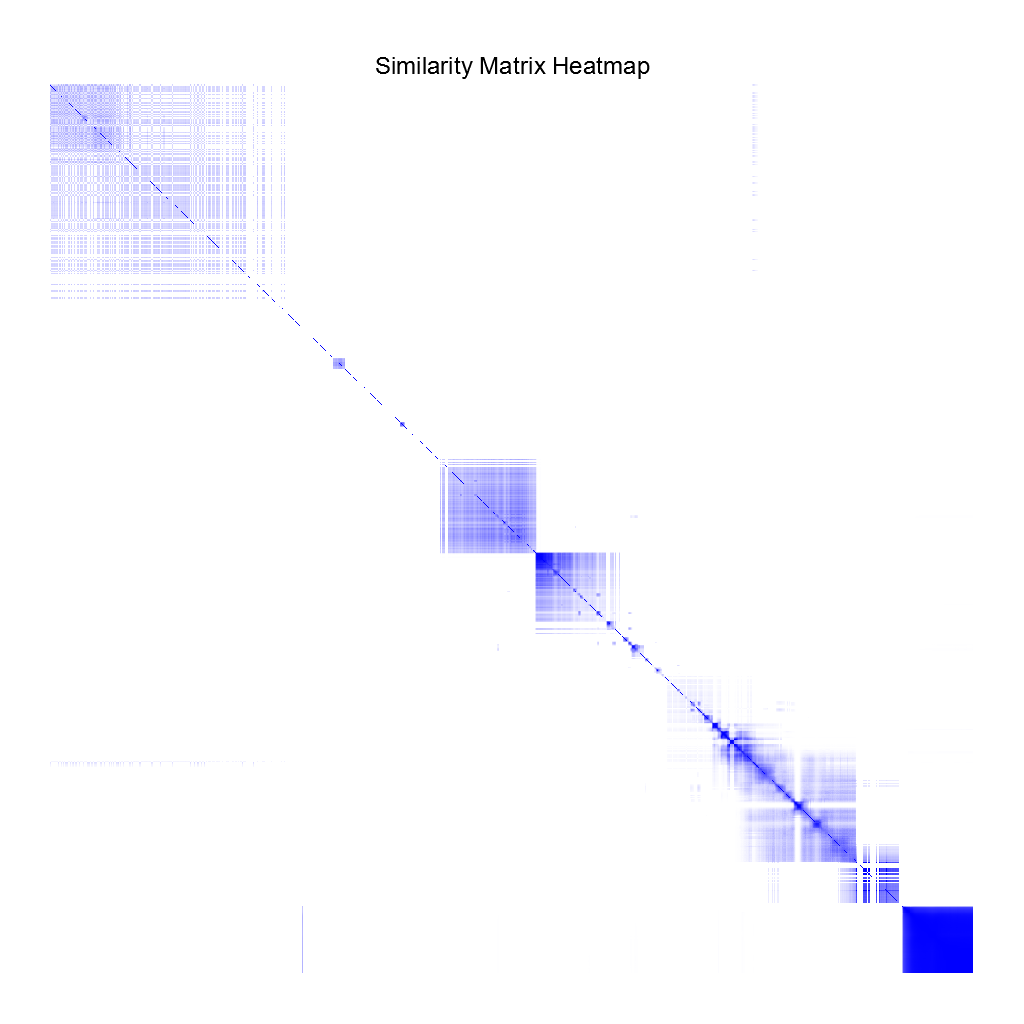
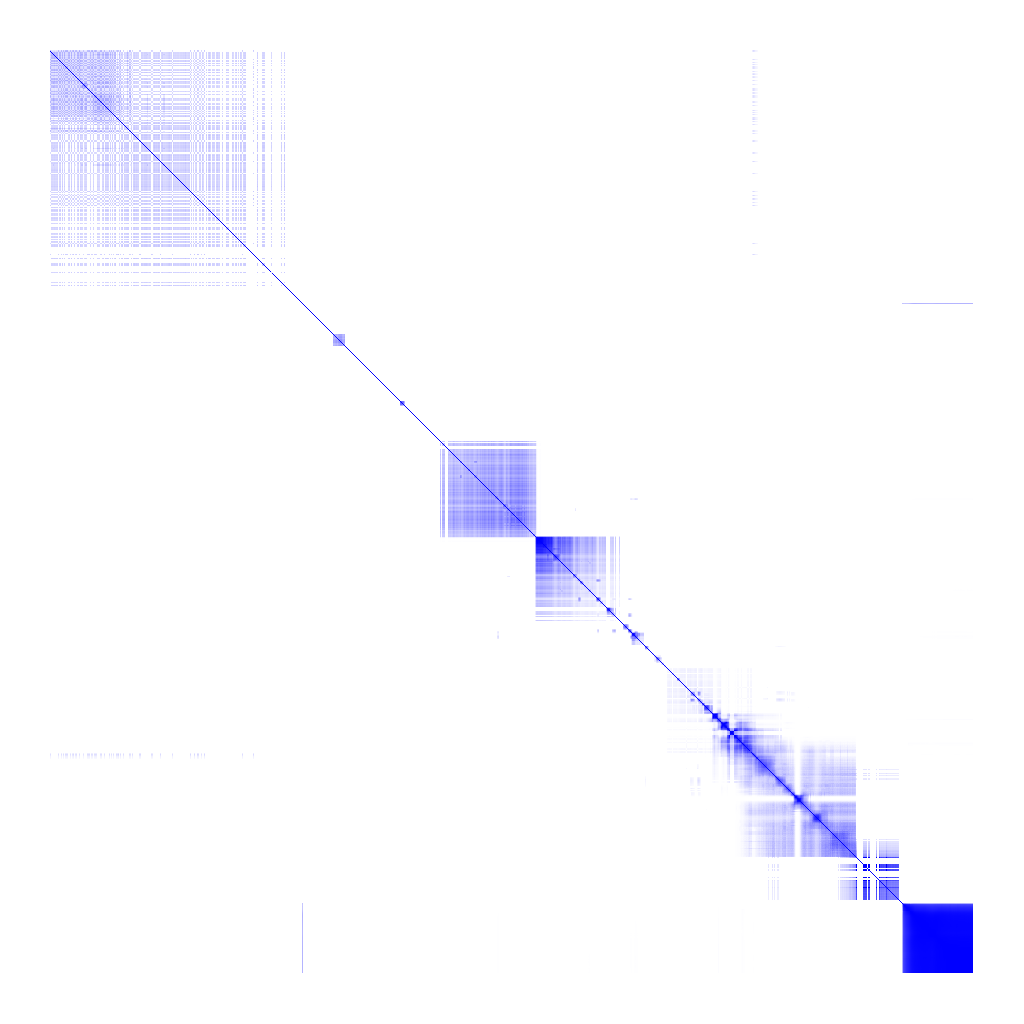
Update config, heatmap images, and remove chart caption
Updated config.toml to use new example input/output paths, adjusted intensity thresholds, and changed theme colors for the viridis style. Replaced all example heatmap images to reflect new settings. Commented out the heatmap caption in src/visual.rs to use the full area for the heatmap visualization.

diff --git a/src/visual.rs b/src/visual.rs
@@ -195,7 +195,7 @@ where
     // Temporarily remove legend - use full area for heatmap
     let mut chart = ChartBuilder::on(&root)
         .margin(50)
-        .caption("Similarity Matrix Heatmap", ("sans-serif", 30))
+        // .caption("Similarity Matrix Heatmap", ("sans-serif", 30))
         .build_cartesian_2d(0..n, 0..n)?;
 
     chart.configure_mesh()
